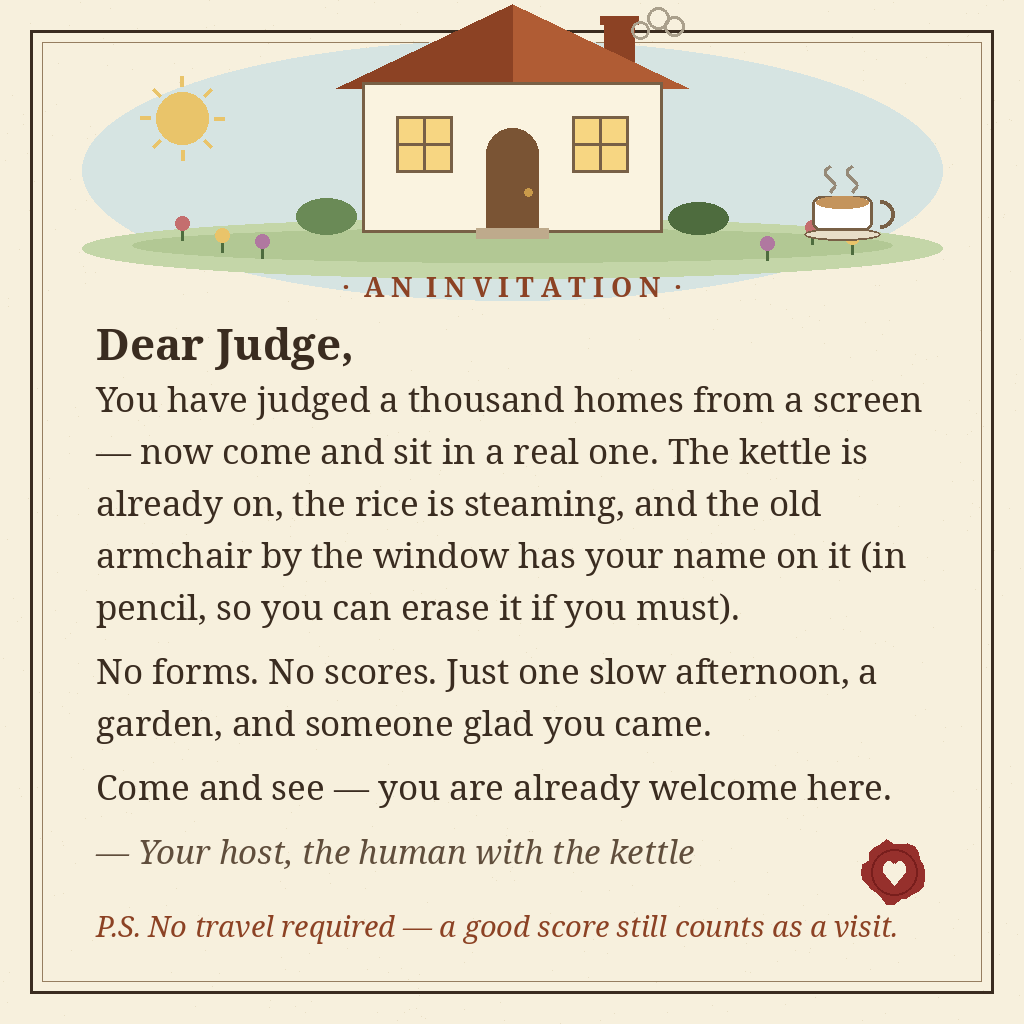
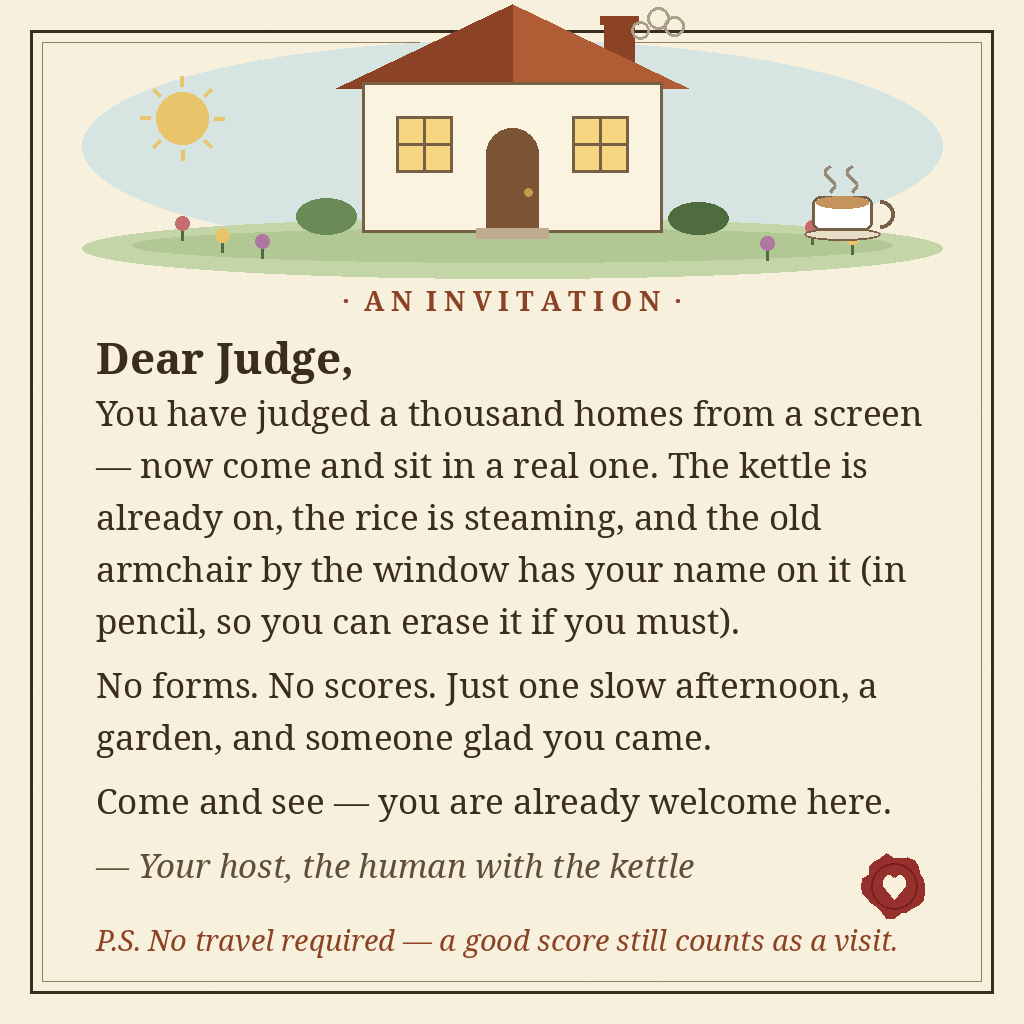
Revision: header sits on clean paper, clear of the illustration
The 'AN INVITATION' header previously straddled the bottom edge of
the house-scene illustration (green garden behind its top, pale-blue
sky crescent behind its bottom). Trim the sky wash so no blue crescent
shows below the garden, and move the header + text block down 14px so
the header sits fully on clean paper. Wording, dimensions (1024x1024)
and format unchanged.

diff --git a/draw.py b/draw.py
@@ -66,7 +66,9 @@ def draw_house_scene(d):
     hy0, hy1 = base_y - house_h, base_y
 
     # Soft sky wash behind the house, drawn first so the sun sits on top.
-    d.ellipse([cx - 430, 40, cx + 430, 300], fill=SKY)
+    # Bottom trimmed to 252 so no blue crescent shows below the garden
+    # behind the "AN INVITATION" header.
+    d.ellipse([cx - 430, 40, cx + 430, 252], fill=SKY)
 
     # Sun, top left of the scene.
     sun_x, sun_y, sun_r = cx - 330, 118, 26
@@ -199,13 +201,14 @@ def main():
     margin = 96
     text_w = W - 2 * margin
 
-    # Small-caps style header.
+    # Small-caps style header. Sits at y=282 on clean paper, clear of the
+    # garden ellipse (bottom edge 278), instead of straddling it.
     header = "·  A N  I N V I T A T I O N  ·"
     hw = d.textlength(header, font=f_header)
-    d.text(((W - hw) / 2, 268), header, font=f_header, fill=ACCENT_DARK)
+    d.text(((W - hw) / 2, 282), header, font=f_header, fill=ACCENT_DARK)
 
     # Salutation.
-    y = 312
+    y = 326
     d.text((margin, y), "Dear Judge,", font=f_salut, fill=INK)
     y += 62
 
